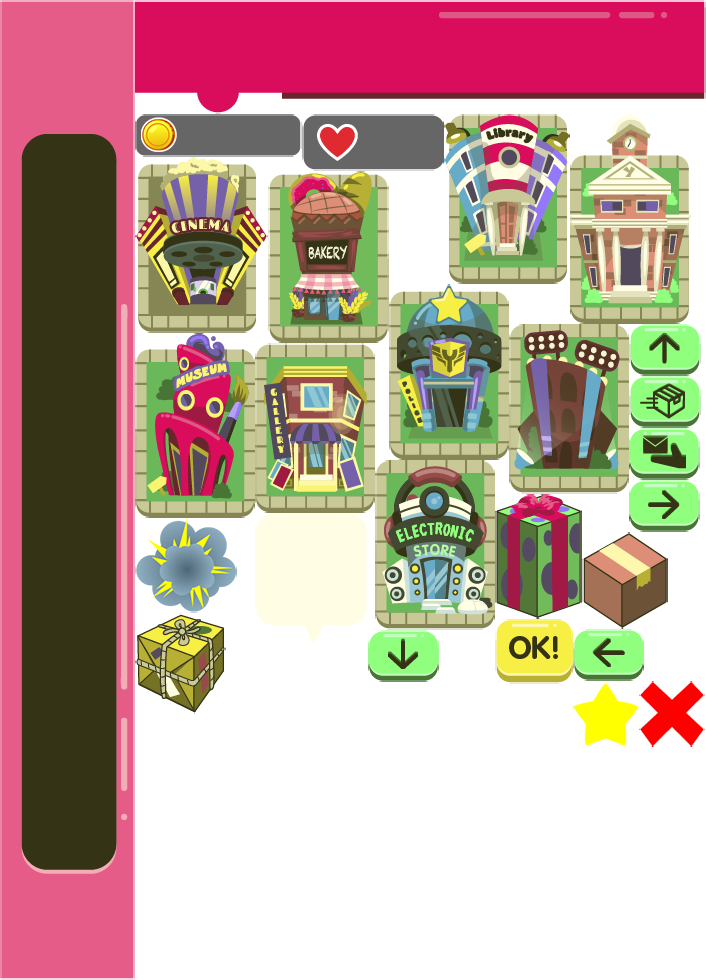
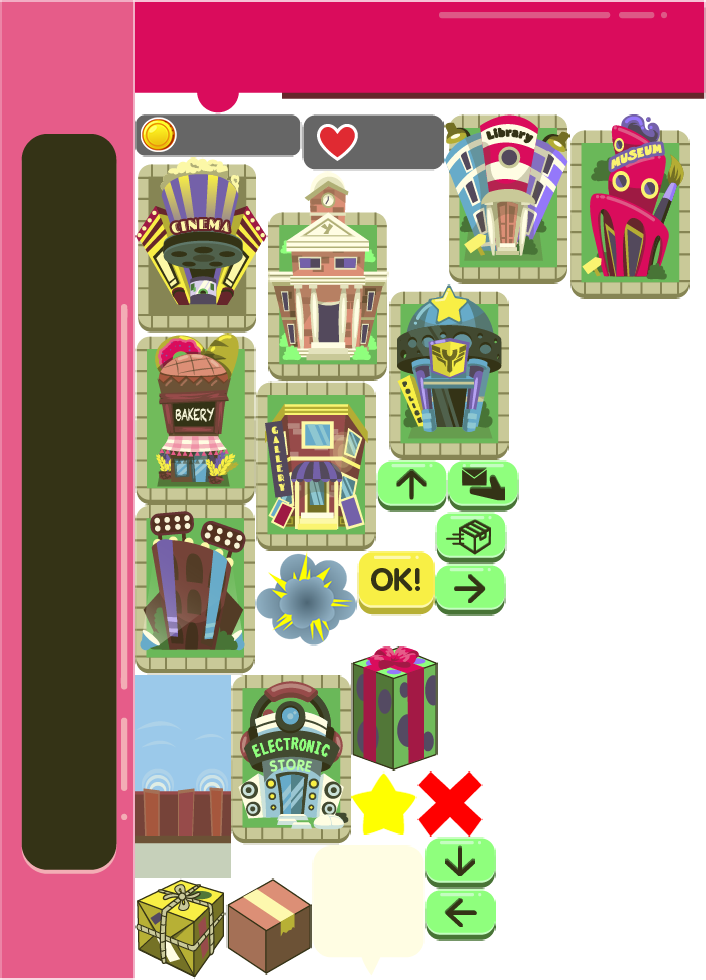
deliver in town art added

diff --git a/newStructure/minigames/deliverInTown/js/scenes/deliverInTown.js b/newStructure/minigames/deliverInTown/js/scenes/deliverInTown.js
@@ -351,7 +351,7 @@ var deliverInTown = function(){
 
 	function createBackground(){
             
-        sceneGroup.add(game.add.tileSprite(0, 0, game.world.width, game.world.height, "tile"))
+        sceneGroup.add(game.add.tileSprite(0, 0, game.world.width, game.world.height, "atlas.deliverInTown", "dock"))
         
         var codeBox = game.add.sprite(0, game.world.height + 20,  "atlas.deliverInTown", "codeBox")
         codeBox.anchor.setTo(0, 1)
@@ -739,9 +739,9 @@ var deliverInTown = function(){
         destinyBubble.anchor.setTo(0.5, 1)
         destinyBubble.scale.setTo(0)
         
-        var destiny = game.add.sprite(0, -25, "atlas.deliverInTown", "btn0")
+        var destiny = game.add.sprite(0, -50, "atlas.deliverInTown", "btn0")
         destiny.anchor.setTo(0.5, 1)
-        destiny.scale.setTo(0.8)
+        destiny.scale.setTo(1.2)
         destinyBubble.addChild(destiny)
         destinyBubble.destiny = destiny
     }
